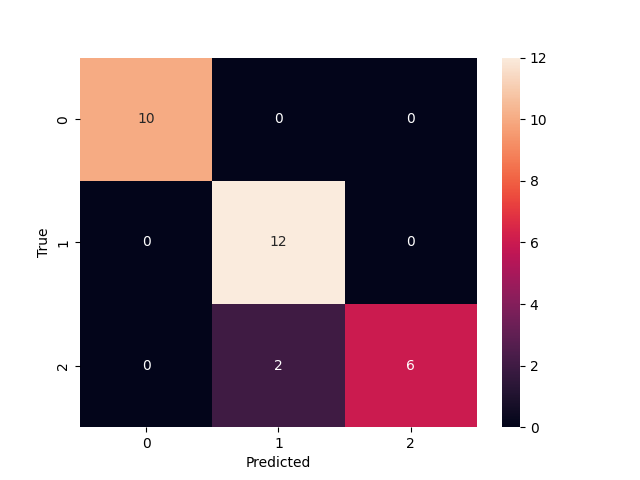
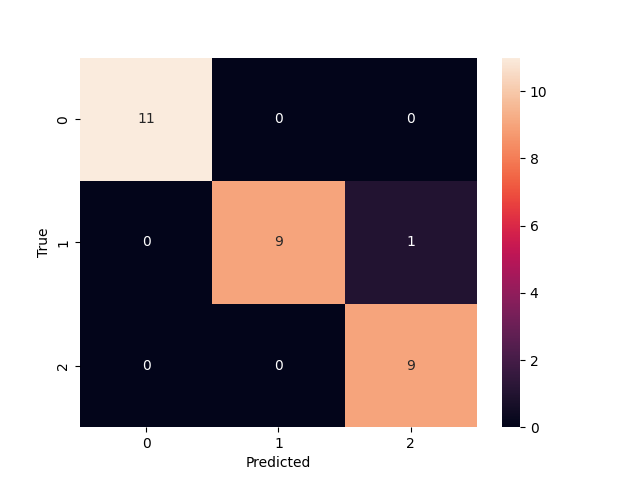
[ci skip] fix: L2min rarity score calculation c6c52364ed770b976b3f97e38401c8a8bf653b49

diff --git a/searchindex.js b/searchindex.js
@@ -1,1 +1,1 @@
-Search.setIndex({"alltitles":{"API Reference":[[0,null]],"Computation times":[[3,null],[9,null]],"Example Gallery":[[1,null]],"Examples using icrlearn.ICRRandomForestClassifier":[[4,"examples-using-icrlearn-icrrandomforestclassifier"]],"Fitting and evaluating an ICR Random Forest":[[2,null]],"ICRRandomForestClassifier":[[4,null],[10,"icrrandomforestclassifier"]],"Predictor":[[0,"predictor"]],"User Guide":[[10,null]],"Utilities":[[0,"utilities"]],"icrlearn.utils.discovery.all_displays":[[5,null]],"icrlearn.utils.discovery.all_estimators":[[6,null]],"icrlearn.utils.discovery.all_functions":[[7,null]],"intra-class-rare-learn Documentation":[[8,null]]},"docnames":["api","auto_examples/index","auto_examples/plot_classifier","auto_examples/sg_execution_times","generated/icrlearn.ICRRandomForestClassifier","generated/icrlearn.utils.discovery.all_displays","generated/icrlearn.utils.discovery.all_estimators","generated/icrlearn.utils.discovery.all_functions","index","sg_execution_times","user_guide"],"envversion":{"sphinx":65,"sphinx.domains.c":3,"sphinx.domains.changeset":1,"sphinx.domains.citation":1,"sphinx.domains.cpp":9,"sphinx.domains.index":1,"sphinx.domains.javascript":3,"sphinx.domains.math":2,"sphinx.domains.python":4,"sphinx.domains.rst":2,"sphinx.domains.std":2,"sphinx.ext.intersphinx":1},"filenames":["api.rst","auto_examples/index.rst","auto_examples/plot_classifier.rst","auto_examples/sg_execution_times.rst","generated/icrlearn.ICRRandomForestClassifier.rst","generated/icrlearn.utils.discovery.all_displays.rst","generated/icrlearn.utils.discovery.all_estimators.rst","generated/icrlearn.utils.discovery.all_functions.rst","index.rst","sg_execution_times.rst","user_guide.rst"],"indexentries":{"all_displays() (in module icrlearn.utils.discovery)":[[5,"icrlearn.utils.discovery.all_displays",false]],"all_estimators() (in module icrlearn.utils.discovery)":[[6,"icrlearn.utils.discovery.all_estimators",false]],"all_functions() (in module icrlearn.utils.discovery)":[[7,"icrlearn.utils.discovery.all_functions",false]],"apply() (icrlearn.icrrandomforestclassifier method)":[[4,"icrlearn.ICRRandomForestClassifier.apply",false]],"calculate_rarity_scores() (icrlearn.icrrandomforestclassifier method)":[[4,"icrlearn.ICRRandomForestClassifier.calculate_rarity_scores",false]],"decision_path() (icrlearn.icrrandomforestclassifier method)":[[4,"icrlearn.ICRRandomForestClassifier.decision_path",false]],"estimators_samples_ (icrlearn.icrrandomforestclassifier property)":[[4,"icrlearn.ICRRandomForestClassifier.estimators_samples_",false]],"feature_importances_ (icrlearn.icrrandomforestclassifier property)":[[4,"icrlearn.ICRRandomForestClassifier.feature_importances_",false]],"fit() (icrlearn.icrrandomforestclassifier method)":[[4,"icrlearn.ICRRandomForestClassifier.fit",false]],"get_metadata_routing() (icrlearn.icrrandomforestclassifier method)":[[4,"icrlearn.ICRRandomForestClassifier.get_metadata_routing",false]],"get_params() (icrlearn.icrrandomforestclassifier method)":[[4,"icrlearn.ICRRandomForestClassifier.get_params",false]],"icrrandomforestclassifier (class in icrlearn)":[[4,"icrlearn.ICRRandomForestClassifier",false]],"predict() (icrlearn.icrrandomforestclassifier method)":[[4,"icrlearn.ICRRandomForestClassifier.predict",false]],"predict_log_proba() (icrlearn.icrrandomforestclassifier method)":[[4,"icrlearn.ICRRandomForestClassifier.predict_log_proba",false]],"predict_proba() (icrlearn.icrrandomforestclassifier method)":[[4,"icrlearn.ICRRandomForestClassifier.predict_proba",false]],"score() (icrlearn.icrrandomforestclassifier method)":[[4,"icrlearn.ICRRandomForestClassifier.score",false]],"set_fit_request() (icrlearn.icrrandomforestclassifier method)":[[4,"icrlearn.ICRRandomForestClassifier.set_fit_request",false]],"set_params() (icrlearn.icrrandomforestclassifier method)":[[4,"icrlearn.ICRRandomForestClassifier.set_params",false]],"set_score_request() (icrlearn.icrrandomforestclassifier method)":[[4,"icrlearn.ICRRandomForestClassifier.set_score_request",false]]},"objects":{"icrlearn":[[4,0,1,"","ICRRandomForestClassifier"]],"icrlearn.ICRRandomForestClassifier":[[4,1,1,"","apply"],[4,1,1,"","calculate_rarity_scores"],[4,1,1,"","decision_path"],[4,2,1,"","estimators_samples_"],[4,2,1,"","feature_importances_"],[4,1,1,"","fit"],[4,1,1,"","get_metadata_routing"],[4,1,1,"","get_params"],[4,1,1,"","predict"],[4,1,1,"","predict_log_proba"],[4,1,1,"","predict_proba"],[4,1,1,"","score"],[4,1,1,"","set_fit_request"],[4,1,1,"","set_params"],[4,1,1,"","set_score_request"]],"icrlearn.utils.discovery":[[5,3,1,"","all_displays"],[6,3,1,"","all_estimators"],[7,3,1,"","all_functions"]]},"objnames":{"0":["py","class","Python class"],"1":["py","method","Python method"],"2":["py","property","Python property"],"3":["py","function","Python function"]},"objtypes":{"0":"py:class","1":"py:method","2":"py:property","3":"py:function"},"terms":{"":[2,4,8],"0":[2,3,4,8,9],"00":[2,3,9],"01":[3,9],"1":[2,3,4,8,9],"10":[2,4],"100":4,"12":[2,8],"18":4,"2":[2,4],"2025":8,"2_min":4,"3":4,"30":2,"5":4,"75":2,"794":[2,3,9],"8":2,"86":2,"92":2,"93":2,"94":2,"95":2,"A":[4,8],"For":4,"If":[4,6],"In":[2,4],"It":[4,8],"That":4,"The":[4,8,10],"To":8,"__":4,"accuraci":[2,4],"across":4,"actual":[5,6,7],"ad":4,"adapt":4,"adjust":4,"algorithm":[4,10],"alia":4,"all":[1,4,5,6,7,9],"allow":4,"also":4,"altern":4,"an":[1,3,4,8,9],"ani":4,"annot":2,"api":8,"appli":[4,6],"ar":[4,6,8],"arrai":4,"assign":4,"attribut":4,"auto_exampl":3,"auto_examples_jupyt":1,"auto_examples_python":1,"avg":2,"bag":4,"base":4,"baseestim":6,"bia":4,"bool":4,"bootstrap":4,"bootstrap_sampl":4,"brought":4,"build":4,"built":8,"calcul":4,"calculate_rarity_scor":4,"call":[4,10],"can":4,"cardin":4,"carri":4,"case":4,"cb":4,"cb_loop":4,"cb_loop_ext":4,"ccp_alpha":4,"chang":4,"check":4,"child":4,"class":[0,4,5,6,10],"class_weight":4,"classes_":4,"classif":4,"classifi":[2,4,6],"classification_report":2,"clf":2,"cluster":6,"code":[1,2],"column":4,"compat":8,"compon":4,"comput":4,"conf_matr":2,"confus":2,"confusion_matrix":2,"consid":4,"consist":4,"contain":4,"control":4,"convert":4,"correctli":4,"correspond":4,"count":4,"crawl":6,"creat":4,"criterion":4,"csc_matrix":4,"csr":4,"csr_matrix":4,"data":[4,10],"datapoint":4,"dataset":[2,4],"date":8,"decis":4,"decision_path":4,"deep":4,"default":[4,6],"defin":6,"demonstr":8,"descript":8,"design":10,"detail":[4,8],"dict":4,"directli":4,"displai":5,"document":4,"download":[1,2],"drawn":4,"dtype":4,"dure":4,"dynam":4,"e":4,"each":4,"effect":4,"either":4,"element":4,"enable_metadata_rout":4,"encapsul":4,"end":[2,4],"ensembl":4,"equal":4,"equat":4,"error":4,"estim":[4,6,8],"estimators_samples_":4,"evalu":[1,3,4,9],"exampl":[2,3,5,6,7,8,9],"execut":[3,9],"exist":4,"expect":4,"extent":4,"f1":2,"fals":4,"featur":4,"feature_importances_":4,"fetch":4,"file":[3,9],"filter":6,"fit":[1,3,4,6,9],"float":4,"float32":4,"footprint":4,"forest":[1,3,4,9,10],"form":[4,10],"format":4,"fraction":4,"from":[2,3,4,5,6,7,9],"full":2,"function":[0,6,7],"g":4,"galleri":[2,8,9],"gener":[1,2,4],"get":[4,5,6,7],"get_metadata_rout":4,"get_param":4,"gini":4,"give":4,"given":4,"go":2,"goe":4,"guid":[0,4,8],"ha":4,"handl":[8,10],"harsh":4,"have":4,"heatmap":2,"high":4,"higher":4,"highest":4,"how":[0,4,8],"i":[0,4,5,6,7,8,10],"icr":[1,3,4,9],"icr_rf":4,"icrlearn":[2,10],"icrrandomforestclassifi":2,"identifi":4,"ignor":4,"imbal":10,"import":[2,4,5,6,7],"impur":4,"includ":[4,6],"index":4,"indic":4,"inform":[0,4],"inherit":6,"input":4,"insid":4,"inspect":4,"instanc":4,"instead":4,"int":4,"intern":4,"intra":[0,4,10],"introductori":1,"ipynb":2,"iri":2,"its":4,"jul":8,"jupyt":[1,2],"kind":6,"known":4,"l":4,"l2min":4,"l2min_psi":4,"label":4,"latter":4,"leaf":4,"learn":[0,4],"least":6,"librari":8,"like":4,"linear":4,"link":8,"list":[4,5,6,7],"load":2,"load_iri":[2,4],"log":4,"loop":4,"macro":2,"mai":4,"mani":4,"map":4,"matplotlib":2,"matrix":[2,4],"max_depth":4,"max_featur":4,"max_leaf_nod":4,"max_sampl":4,"mb":[3,9],"mean":4,"measur":4,"mechan":4,"mem":[3,9],"member":4,"memori":4,"meta":4,"metadata":4,"metadata_rout":4,"metadatarequest":4,"method":4,"metric":[2,4],"min_impurity_decreas":4,"min_rarity_scor":4,"min_samples_leaf":4,"min_samples_split":4,"min_weight_fraction_leaf":4,"minimum":4,"minut":2,"mislead":4,"model":4,"model_select":2,"modif":10,"modifi":4,"modul":6,"monotonic_cst":4,"more":[0,4],"multi":4,"n_class":4,"n_estim":4,"n_featur":4,"n_job":4,"n_neighbor":4,"n_node":4,"n_nodes_ptr":4,"n_output":4,"n_sampl":4,"name":[4,5,6,7],"ndarrai":4,"neg":4,"neighbor":4,"neighborhood":4,"nest":4,"net":4,"new":[8,10],"node":4,"non":4,"none":[4,6],"normal":4,"note":4,"notebook":[1,2],"np":4,"number":4,"object":4,"one":[4,6],"onli":[4,6],"oob_scor":4,"option":4,"order":4,"origin":4,"other":4,"otherwis":4,"overview":8,"p":4,"packag":[0,8,10],"param":4,"paramet":[4,6],"pass":4,"path":4,"permutation_import":4,"pipelin":4,"place":8,"pleas":4,"plot":2,"plot_classifi":[2,3,9],"plt":2,"possibl":[4,6],"precis":2,"predict":[2,4],"predict_log_proba":4,"predict_proba":4,"print":2,"probabl":4,"process":4,"properti":4,"provid":[4,8,10],"psi":4,"py":[2,3,9],"pynomali":4,"pyplot":2,"python":[1,2],"r":4,"rais":4,"random":[1,3,4,9,10],"random_st":4,"randomforestclassifi":4,"rare":[0,4,10],"rariti":[4,8],"rarity_adjustment_method":4,"rarity_measur":4,"rarity_scor":4,"re":4,"real":4,"recal":2,"reduc":4,"reduct":4,"refer":8,"regress":4,"regressor":6,"relev":4,"repositori":8,"request":4,"requir":4,"result":4,"retain":4,"return":[4,5,6,7],"return_x_i":[2,4],"rf":4,"right":8,"root":4,"rout":4,"run":2,"same":4,"sampl":[4,10],"sample_weight":4,"scale":4,"scikit":4,"score":[2,4],"script":2,"seaborn":2,"search":4,"second":2,"see":4,"self":4,"sensit":4,"set":[2,4,8],"set_config":4,"set_fit_request":4,"set_param":4,"set_score_request":4,"shape":4,"should":[4,6],"show":2,"simpl":4,"sinc":4,"singl":4,"sklearn":[2,4,8],"slower":4,"sn":2,"so":4,"some":[2,4],"sourc":[1,2,8],"spars":4,"specif":6,"sphinx":[1,2],"split":[2,4],"sqrt":4,"start":8,"store":4,"str":[4,6],"string":[5,6,7],"sub":4,"subobject":4,"subset":4,"sum":4,"support":[2,4],"t":4,"target":4,"test":[2,4,6],"test_siz":2,"th":4,"than":4,"thei":4,"them":4,"thi":[0,2,4,6,8,10],"through":4,"thu":4,"time":2,"total":[2,3,4,9],"toward":4,"train":[2,4],"train_test_split":2,"transform":6,"tree":4,"true":[2,4],"tupl":[5,6,7],"type":[5,6],"type_filt":6,"unchang":4,"uniqu":4,"unless":4,"up":4,"updat":4,"us":[0,8],"user":[0,4,8],"util":4,"valu":[4,6],"verbos":4,"version":[4,8],"vote":4,"w":4,"warm_start":4,"warn":4,"we":2,"weight":[2,4],"well":4,"where":[4,5,6,7],"which":[4,6],"while":4,"wide":4,"within":[8,10],"work":4,"would":4,"x":[2,4],"x_leav":4,"x_test":2,"x_train":2,"xlabel":2,"y":[2,4],"y_pred":2,"y_test":2,"y_train":2,"ylabel":2,"you":[4,8],"zero":4,"zip":[1,2]},"titles":["API Reference","Example Gallery","Fitting and evaluating an ICR Random Forest","Computation times","ICRRandomForestClassifier","icrlearn.utils.discovery.all_displays","icrlearn.utils.discovery.all_estimators","icrlearn.utils.discovery.all_functions","intra-class-rare-learn Documentation","Computation times","User guide : contents"],"titleterms":{"all_displai":5,"all_estim":6,"all_funct":7,"an":2,"api":0,"class":8,"comput":[3,9],"discoveri":[5,6,7],"document":8,"evalu":2,"exampl":[1,4],"fit":2,"forest":2,"galleri":1,"guid":10,"icr":2,"icrlearn":[4,5,6,7],"icrrandomforestclassifi":[4,10],"intra":8,"learn":8,"predictor":0,"random":2,"rare":8,"refer":0,"time":[3,9],"us":4,"user":10,"util":[0,5,6,7]}})
+Search.setIndex({"alltitles":{"API Reference":[[0,null]],"Computation times":[[3,null],[9,null]],"Example Gallery":[[1,null]],"Examples using icrlearn.ICRRandomForestClassifier":[[4,"examples-using-icrlearn-icrrandomforestclassifier"]],"Fitting and evaluating an ICR Random Forest":[[2,null]],"ICRRandomForestClassifier":[[4,null],[10,"icrrandomforestclassifier"]],"Predictor":[[0,"predictor"]],"User Guide":[[10,null]],"Utilities":[[0,"utilities"]],"icrlearn.utils.discovery.all_displays":[[5,null]],"icrlearn.utils.discovery.all_estimators":[[6,null]],"icrlearn.utils.discovery.all_functions":[[7,null]],"intra-class-rare-learn Documentation":[[8,null]]},"docnames":["api","auto_examples/index","auto_examples/plot_classifier","auto_examples/sg_execution_times","generated/icrlearn.ICRRandomForestClassifier","generated/icrlearn.utils.discovery.all_displays","generated/icrlearn.utils.discovery.all_estimators","generated/icrlearn.utils.discovery.all_functions","index","sg_execution_times","user_guide"],"envversion":{"sphinx":65,"sphinx.domains.c":3,"sphinx.domains.changeset":1,"sphinx.domains.citation":1,"sphinx.domains.cpp":9,"sphinx.domains.index":1,"sphinx.domains.javascript":3,"sphinx.domains.math":2,"sphinx.domains.python":4,"sphinx.domains.rst":2,"sphinx.domains.std":2,"sphinx.ext.intersphinx":1},"filenames":["api.rst","auto_examples/index.rst","auto_examples/plot_classifier.rst","auto_examples/sg_execution_times.rst","generated/icrlearn.ICRRandomForestClassifier.rst","generated/icrlearn.utils.discovery.all_displays.rst","generated/icrlearn.utils.discovery.all_estimators.rst","generated/icrlearn.utils.discovery.all_functions.rst","index.rst","sg_execution_times.rst","user_guide.rst"],"indexentries":{"all_displays() (in module icrlearn.utils.discovery)":[[5,"icrlearn.utils.discovery.all_displays",false]],"all_estimators() (in module icrlearn.utils.discovery)":[[6,"icrlearn.utils.discovery.all_estimators",false]],"all_functions() (in module icrlearn.utils.discovery)":[[7,"icrlearn.utils.discovery.all_functions",false]],"apply() (icrlearn.icrrandomforestclassifier method)":[[4,"icrlearn.ICRRandomForestClassifier.apply",false]],"calculate_rarity_scores() (icrlearn.icrrandomforestclassifier method)":[[4,"icrlearn.ICRRandomForestClassifier.calculate_rarity_scores",false]],"decision_path() (icrlearn.icrrandomforestclassifier method)":[[4,"icrlearn.ICRRandomForestClassifier.decision_path",false]],"estimators_samples_ (icrlearn.icrrandomforestclassifier property)":[[4,"icrlearn.ICRRandomForestClassifier.estimators_samples_",false]],"feature_importances_ (icrlearn.icrrandomforestclassifier property)":[[4,"icrlearn.ICRRandomForestClassifier.feature_importances_",false]],"fit() (icrlearn.icrrandomforestclassifier method)":[[4,"icrlearn.ICRRandomForestClassifier.fit",false]],"get_metadata_routing() (icrlearn.icrrandomforestclassifier method)":[[4,"icrlearn.ICRRandomForestClassifier.get_metadata_routing",false]],"get_params() (icrlearn.icrrandomforestclassifier method)":[[4,"icrlearn.ICRRandomForestClassifier.get_params",false]],"icrrandomforestclassifier (class in icrlearn)":[[4,"icrlearn.ICRRandomForestClassifier",false]],"predict() (icrlearn.icrrandomforestclassifier method)":[[4,"icrlearn.ICRRandomForestClassifier.predict",false]],"predict_log_proba() (icrlearn.icrrandomforestclassifier method)":[[4,"icrlearn.ICRRandomForestClassifier.predict_log_proba",false]],"predict_proba() (icrlearn.icrrandomforestclassifier method)":[[4,"icrlearn.ICRRandomForestClassifier.predict_proba",false]],"score() (icrlearn.icrrandomforestclassifier method)":[[4,"icrlearn.ICRRandomForestClassifier.score",false]],"set_fit_request() (icrlearn.icrrandomforestclassifier method)":[[4,"icrlearn.ICRRandomForestClassifier.set_fit_request",false]],"set_params() (icrlearn.icrrandomforestclassifier method)":[[4,"icrlearn.ICRRandomForestClassifier.set_params",false]],"set_score_request() (icrlearn.icrrandomforestclassifier method)":[[4,"icrlearn.ICRRandomForestClassifier.set_score_request",false]]},"objects":{"icrlearn":[[4,0,1,"","ICRRandomForestClassifier"]],"icrlearn.ICRRandomForestClassifier":[[4,1,1,"","apply"],[4,1,1,"","calculate_rarity_scores"],[4,1,1,"","decision_path"],[4,2,1,"","estimators_samples_"],[4,2,1,"","feature_importances_"],[4,1,1,"","fit"],[4,1,1,"","get_metadata_routing"],[4,1,1,"","get_params"],[4,1,1,"","predict"],[4,1,1,"","predict_log_proba"],[4,1,1,"","predict_proba"],[4,1,1,"","score"],[4,1,1,"","set_fit_request"],[4,1,1,"","set_params"],[4,1,1,"","set_score_request"]],"icrlearn.utils.discovery":[[5,3,1,"","all_displays"],[6,3,1,"","all_estimators"],[7,3,1,"","all_functions"]]},"objnames":{"0":["py","class","Python class"],"1":["py","method","Python method"],"2":["py","property","Python property"],"3":["py","function","Python function"]},"objtypes":{"0":"py:class","1":"py:method","2":"py:property","3":"py:function"},"terms":{"":[2,4,8],"0":[2,3,4,8,9],"00":[2,3,9],"01":[3,9],"1":[2,3,4,8,9],"10":[2,4],"100":4,"11":2,"16":8,"18":4,"2":[2,4],"2025":8,"2_min":4,"3":4,"30":2,"5":4,"707":[2,3,9],"9":2,"90":2,"95":2,"96":2,"97":2,"A":[4,8],"For":4,"If":[4,6],"In":[2,4],"It":[4,8],"That":4,"The":[4,8,10],"To":8,"__":4,"accuraci":[2,4],"across":4,"actual":[5,6,7],"ad":4,"adapt":4,"adjust":4,"algorithm":[4,10],"alia":4,"all":[1,4,5,6,7,9],"allow":4,"also":4,"altern":4,"an":[1,3,4,8,9],"ani":4,"annot":2,"api":8,"appli":[4,6],"ar":[4,6,8],"arrai":4,"assign":4,"attribut":4,"auto_exampl":3,"auto_examples_jupyt":1,"auto_examples_python":1,"avg":2,"bag":4,"base":4,"baseestim":6,"bia":4,"bool":4,"bootstrap":4,"bootstrap_sampl":4,"brought":4,"build":4,"built":8,"calcul":4,"calculate_rarity_scor":4,"call":[4,10],"can":4,"cardin":4,"carri":4,"case":4,"cb":4,"cb_loop":4,"cb_loop_ext":4,"ccp_alpha":4,"chang":4,"check":4,"child":4,"class":[0,4,5,6,10],"class_weight":4,"classes_":4,"classif":4,"classifi":[2,4,6],"classification_report":2,"clf":2,"cluster":6,"code":[1,2],"column":4,"compat":8,"compon":4,"comput":4,"conf_matr":2,"confus":2,"confusion_matrix":2,"consid":4,"consist":4,"contain":4,"control":4,"convert":4,"correctli":4,"correspond":4,"count":4,"crawl":6,"creat":4,"criterion":4,"csc_matrix":4,"csr":4,"csr_matrix":4,"data":[4,10],"datapoint":4,"dataset":[2,4],"date":8,"decis":4,"decision_path":4,"deep":4,"default":[4,6],"defin":6,"demonstr":8,"descript":8,"design":10,"detail":[4,8],"dict":4,"directli":4,"displai":5,"document":4,"download":[1,2],"drawn":4,"dtype":4,"dure":4,"dynam":4,"e":4,"each":4,"effect":4,"either":4,"element":4,"enable_metadata_rout":4,"encapsul":4,"end":[2,4],"ensembl":4,"equal":4,"equat":4,"error":4,"estim":[4,6,8],"estimators_samples_":4,"evalu":[1,3,4,9],"exampl":[2,3,5,6,7,8,9],"execut":[3,9],"exist":4,"expect":4,"extent":4,"f1":2,"fals":4,"featur":4,"feature_importances_":4,"fetch":4,"file":[3,9],"filter":6,"fit":[1,3,4,6,9],"float":4,"float32":4,"footprint":4,"forest":[1,3,4,9,10],"form":[4,10],"format":4,"fraction":4,"from":[2,3,4,5,6,7,9],"full":2,"function":[0,6,7],"g":4,"galleri":[2,8,9],"gener":[1,2,4],"get":[4,5,6,7],"get_metadata_rout":4,"get_param":4,"gini":4,"give":4,"given":4,"go":2,"goe":4,"guid":[0,4,8],"ha":4,"handl":[8,10],"harsh":4,"have":4,"heatmap":2,"high":4,"higher":4,"highest":4,"how":[0,4,8],"i":[0,4,5,6,7,8,10],"icr":[1,3,4,9],"icr_rf":4,"icrlearn":[2,10],"icrrandomforestclassifi":2,"identifi":4,"ignor":4,"imbal":10,"import":[2,4,5,6,7],"impur":4,"includ":[4,6],"index":4,"indic":4,"inform":[0,4],"inherit":6,"input":4,"insid":4,"inspect":4,"instanc":4,"instead":4,"int":4,"intern":4,"intra":[0,4,10],"introductori":1,"ipynb":2,"iri":2,"its":4,"jul":8,"jupyt":[1,2],"kind":6,"known":4,"l":4,"l2min":4,"l2min_psi":4,"label":4,"latter":4,"leaf":4,"learn":[0,4],"least":6,"librari":8,"like":4,"linear":4,"link":8,"list":[4,5,6,7],"load":2,"load_iri":[2,4],"log":4,"loop":4,"macro":2,"mai":4,"mani":4,"map":4,"matplotlib":2,"matrix":[2,4],"max_depth":4,"max_featur":4,"max_leaf_nod":4,"max_sampl":4,"mb":[3,9],"mean":4,"measur":4,"mechan":4,"mem":[3,9],"member":4,"memori":4,"meta":4,"metadata":4,"metadata_rout":4,"metadatarequest":4,"method":4,"metric":[2,4],"min_impurity_decreas":4,"min_rarity_scor":4,"min_samples_leaf":4,"min_samples_split":4,"min_weight_fraction_leaf":4,"minimum":4,"minut":2,"mislead":4,"model":4,"model_select":2,"modif":10,"modifi":4,"modul":6,"monotonic_cst":4,"more":[0,4],"multi":4,"n_class":4,"n_estim":4,"n_featur":4,"n_job":4,"n_neighbor":4,"n_node":4,"n_nodes_ptr":4,"n_output":4,"n_sampl":4,"name":[4,5,6,7],"ndarrai":4,"neg":4,"neighbor":4,"neighborhood":4,"nest":4,"net":4,"new":[8,10],"node":4,"non":4,"none":[4,6],"normal":4,"note":4,"notebook":[1,2],"np":4,"number":4,"object":4,"one":[4,6],"onli":[4,6],"oob_scor":4,"option":4,"order":4,"origin":4,"other":4,"otherwis":4,"overview":8,"p":4,"packag":[0,8,10],"param":4,"paramet":[4,6],"pass":4,"path":4,"permutation_import":4,"pipelin":4,"place":8,"pleas":4,"plot":2,"plot_classifi":[2,3,9],"plt":2,"possibl":[4,6],"precis":2,"predict":[2,4],"predict_log_proba":4,"predict_proba":4,"print":2,"probabl":4,"process":4,"properti":4,"provid":[4,8,10],"psi":4,"py":[2,3,9],"pynomali":4,"pyplot":2,"python":[1,2],"r":4,"rais":4,"random":[1,3,4,9,10],"random_st":4,"randomforestclassifi":4,"rare":[0,4,10],"rariti":[4,8],"rarity_adjustment_method":4,"rarity_measur":4,"rarity_scor":4,"re":4,"real":4,"recal":2,"reduc":4,"reduct":4,"refer":8,"regress":4,"regressor":6,"relev":4,"repositori":8,"request":4,"requir":4,"result":4,"retain":4,"return":[4,5,6,7],"return_x_i":[2,4],"rf":4,"right":8,"root":4,"rout":4,"run":2,"same":4,"sampl":[4,10],"sample_weight":4,"scale":4,"scikit":4,"score":[2,4],"script":2,"seaborn":2,"search":4,"second":2,"see":4,"self":4,"sensit":4,"set":[2,4,8],"set_config":4,"set_fit_request":4,"set_param":4,"set_score_request":4,"shape":4,"should":[4,6],"show":2,"simpl":4,"sinc":4,"singl":4,"sklearn":[2,4,8],"slower":4,"sn":2,"so":4,"some":[2,4],"sourc":[1,2,8],"spars":4,"specif":6,"sphinx":[1,2],"split":[2,4],"sqrt":4,"start":8,"store":4,"str":[4,6],"string":[5,6,7],"sub":4,"subobject":4,"subset":4,"sum":4,"support":[2,4],"t":4,"target":4,"test":[2,4,6],"test_siz":2,"th":4,"than":4,"thei":4,"them":4,"thi":[0,2,4,6,8,10],"through":4,"thu":4,"time":2,"total":[2,3,4,9],"toward":4,"train":[2,4],"train_test_split":2,"transform":6,"tree":4,"true":[2,4],"tupl":[5,6,7],"type":[5,6],"type_filt":6,"unchang":4,"uniqu":4,"unless":4,"up":4,"updat":4,"us":[0,8],"user":[0,4,8],"util":4,"valu":[4,6],"verbos":4,"version":[4,8],"vote":4,"w":4,"warm_start":4,"warn":4,"we":2,"weight":[2,4],"well":4,"where":[4,5,6,7],"which":[4,6],"while":4,"wide":4,"within":[8,10],"work":4,"would":4,"x":[2,4],"x_leav":4,"x_test":2,"x_train":2,"xlabel":2,"y":[2,4],"y_pred":2,"y_test":2,"y_train":2,"ylabel":2,"you":[4,8],"zero":4,"zip":[1,2]},"titles":["API Reference","Example Gallery","Fitting and evaluating an ICR Random Forest","Computation times","ICRRandomForestClassifier","icrlearn.utils.discovery.all_displays","icrlearn.utils.discovery.all_estimators","icrlearn.utils.discovery.all_functions","intra-class-rare-learn Documentation","Computation times","User guide : contents"],"titleterms":{"all_displai":5,"all_estim":6,"all_funct":7,"an":2,"api":0,"class":8,"comput":[3,9],"discoveri":[5,6,7],"document":8,"evalu":2,"exampl":[1,4],"fit":2,"forest":2,"galleri":1,"guid":10,"icr":2,"icrlearn":[4,5,6,7],"icrrandomforestclassifi":[4,10],"intra":8,"learn":8,"predictor":0,"random":2,"rare":8,"refer":0,"time":[3,9],"us":4,"user":10,"util":[0,5,6,7]}})

diff --git a/auto_examples/plot_classifier.html b/auto_examples/plot_classifier.html
@@ -405,13 +405,13 @@ to download the full example code.</p>
 </div>
 <div class="sphx-glr-script-out highlight-none notranslate"><div class="highlight"><pre><span></span>              precision    recall  f1-score   support
 
-           0       1.00      1.00      1.00        10
-           1       0.86      1.00      0.92        12
-           2       1.00      0.75      0.86         8
+           0       1.00      1.00      1.00        11
+           1       1.00      0.90      0.95        10
+           2       0.90      1.00      0.95         9
 
-    accuracy                           0.93        30
-   macro avg       0.95      0.92      0.93        30
-weighted avg       0.94      0.93      0.93        30
+    accuracy                           0.97        30
+   macro avg       0.97      0.97      0.96        30
+weighted avg       0.97      0.97      0.97        30
 </pre></div>
 </div>
 <p>Plot a confusion matrix of the classifier’s predictions</p>
@@ -426,7 +426,7 @@ weighted avg       0.94      0.93      0.93        30
 <a href="https://matplotlib.org/stable/api/_as_gen/matplotlib.pyplot.show.html#matplotlib.pyplot.show" title="matplotlib.pyplot.show" class="sphx-glr-backref-module-matplotlib-pyplot sphx-glr-backref-type-py-function"><span class="n">plt</span><span class="o">.</span><span class="n">show</span></a><span class="p">()</span>
 </pre></div>
 </div>
-<img src="../_images/sphx_glr_plot_classifier_001.png" srcset="../_images/sphx_glr_plot_classifier_001.png" alt="plot classifier" class = "sphx-glr-single-img"/><p class="sphx-glr-timing"><strong>Total running time of the script:</strong> (0 minutes 1.794 seconds)</p>
+<img src="../_images/sphx_glr_plot_classifier_001.png" srcset="../_images/sphx_glr_plot_classifier_001.png" alt="plot classifier" class = "sphx-glr-single-img"/><p class="sphx-glr-timing"><strong>Total running time of the script:</strong> (0 minutes 1.707 seconds)</p>
 <div class="sphx-glr-footer sphx-glr-footer-example docutils container" id="sphx-glr-download-auto-examples-plot-classifier-py">
 <div class="sphx-glr-download sphx-glr-download-jupyter docutils container">
 <p><a class="reference download internal" download="" href="../_downloads/fed3e85cac62fc93e088aa8cb008d467/plot_classifier.ipynb"><code class="xref download docutils literal notranslate"><span class="pre">Download</span> <span class="pre">Jupyter</span> <span class="pre">notebook:</span> <span class="pre">plot_classifier.ipynb</span></code></a></p>

diff --git a/sg_execution_times.html b/sg_execution_times.html
@@ -359,7 +359,7 @@
                   
   <section id="computation-times">
 <span id="sphx-glr-sg-execution-times"></span><h1>Computation times<a class="headerlink" href="#computation-times" title="Link to this heading">#</a></h1>
-<p><strong>00:01.794</strong> total execution time for 1 file <strong>from all galleries</strong>:</p>
+<p><strong>00:01.707</strong> total execution time for 1 file <strong>from all galleries</strong>:</p>
 <div class="docutils container">
 <style scoped>
 <link href="https://cdnjs.cloudflare.com/ajax/libs/twitter-bootstrap/5.3.0/css/bootstrap.min.css" rel="stylesheet" />
@@ -381,7 +381,7 @@ $(document).ready( function () {
 </thead>
 <tbody>
 <tr class="row-even"><td><p><a class="reference internal" href="auto_examples/plot_classifier.html#sphx-glr-auto-examples-plot-classifier-py"><span class="std std-ref">Fitting and evaluating an ICR Random Forest</span></a> (<code class="docutils literal notranslate"><span class="pre">../examples/plot_classifier.py</span></code>)</p></td>
-<td><p>00:01.794</p></td>
+<td><p>00:01.707</p></td>
 <td><p>0.0</p></td>
 </tr>
 </tbody>

diff --git a/auto_examples/sg_execution_times.html b/auto_examples/sg_execution_times.html
@@ -359,7 +359,7 @@
                   
   <section id="computation-times">
 <span id="sphx-glr-auto-examples-sg-execution-times"></span><h1>Computation times<a class="headerlink" href="#computation-times" title="Link to this heading">#</a></h1>
-<p><strong>00:01.794</strong> total execution time for 1 file <strong>from auto_examples</strong>:</p>
+<p><strong>00:01.707</strong> total execution time for 1 file <strong>from auto_examples</strong>:</p>
 <div class="docutils container">
 <style scoped>
 <link href="https://cdnjs.cloudflare.com/ajax/libs/twitter-bootstrap/5.3.0/css/bootstrap.min.css" rel="stylesheet" />
@@ -381,7 +381,7 @@ $(document).ready( function () {
 </thead>
 <tbody>
 <tr class="row-even"><td><p><a class="reference internal" href="plot_classifier.html#sphx-glr-auto-examples-plot-classifier-py"><span class="std std-ref">Fitting and evaluating an ICR Random Forest</span></a> (<code class="docutils literal notranslate"><span class="pre">plot_classifier.py</span></code>)</p></td>
-<td><p>00:01.794</p></td>
+<td><p>00:01.707</p></td>
 <td><p>0.0</p></td>
 </tr>
 </tbody>

diff --git a/index.html b/index.html
@@ -336,7 +336,7 @@
                   
   <section id="intra-class-rare-learn-documentation">
 <h1>intra-class-rare-learn Documentation<a class="headerlink" href="#intra-class-rare-learn-documentation" title="Link to this heading">#</a></h1>
-<p><strong>Date</strong>: Jul 12, 2025 <strong>Version</strong>: 0.0.1</p>
+<p><strong>Date</strong>: Jul 16, 2025 <strong>Version</strong>: 0.0.1</p>
 <p><strong>Useful links</strong>:
 <a class="reference external" href="https://github.com/jannewer/intra-class-rare-learn">Source Repository</a></p>
 <p>This is the documentation for the <code class="docutils literal notranslate"><span class="pre">intra-class-rare-learn</span></code> package. The package
